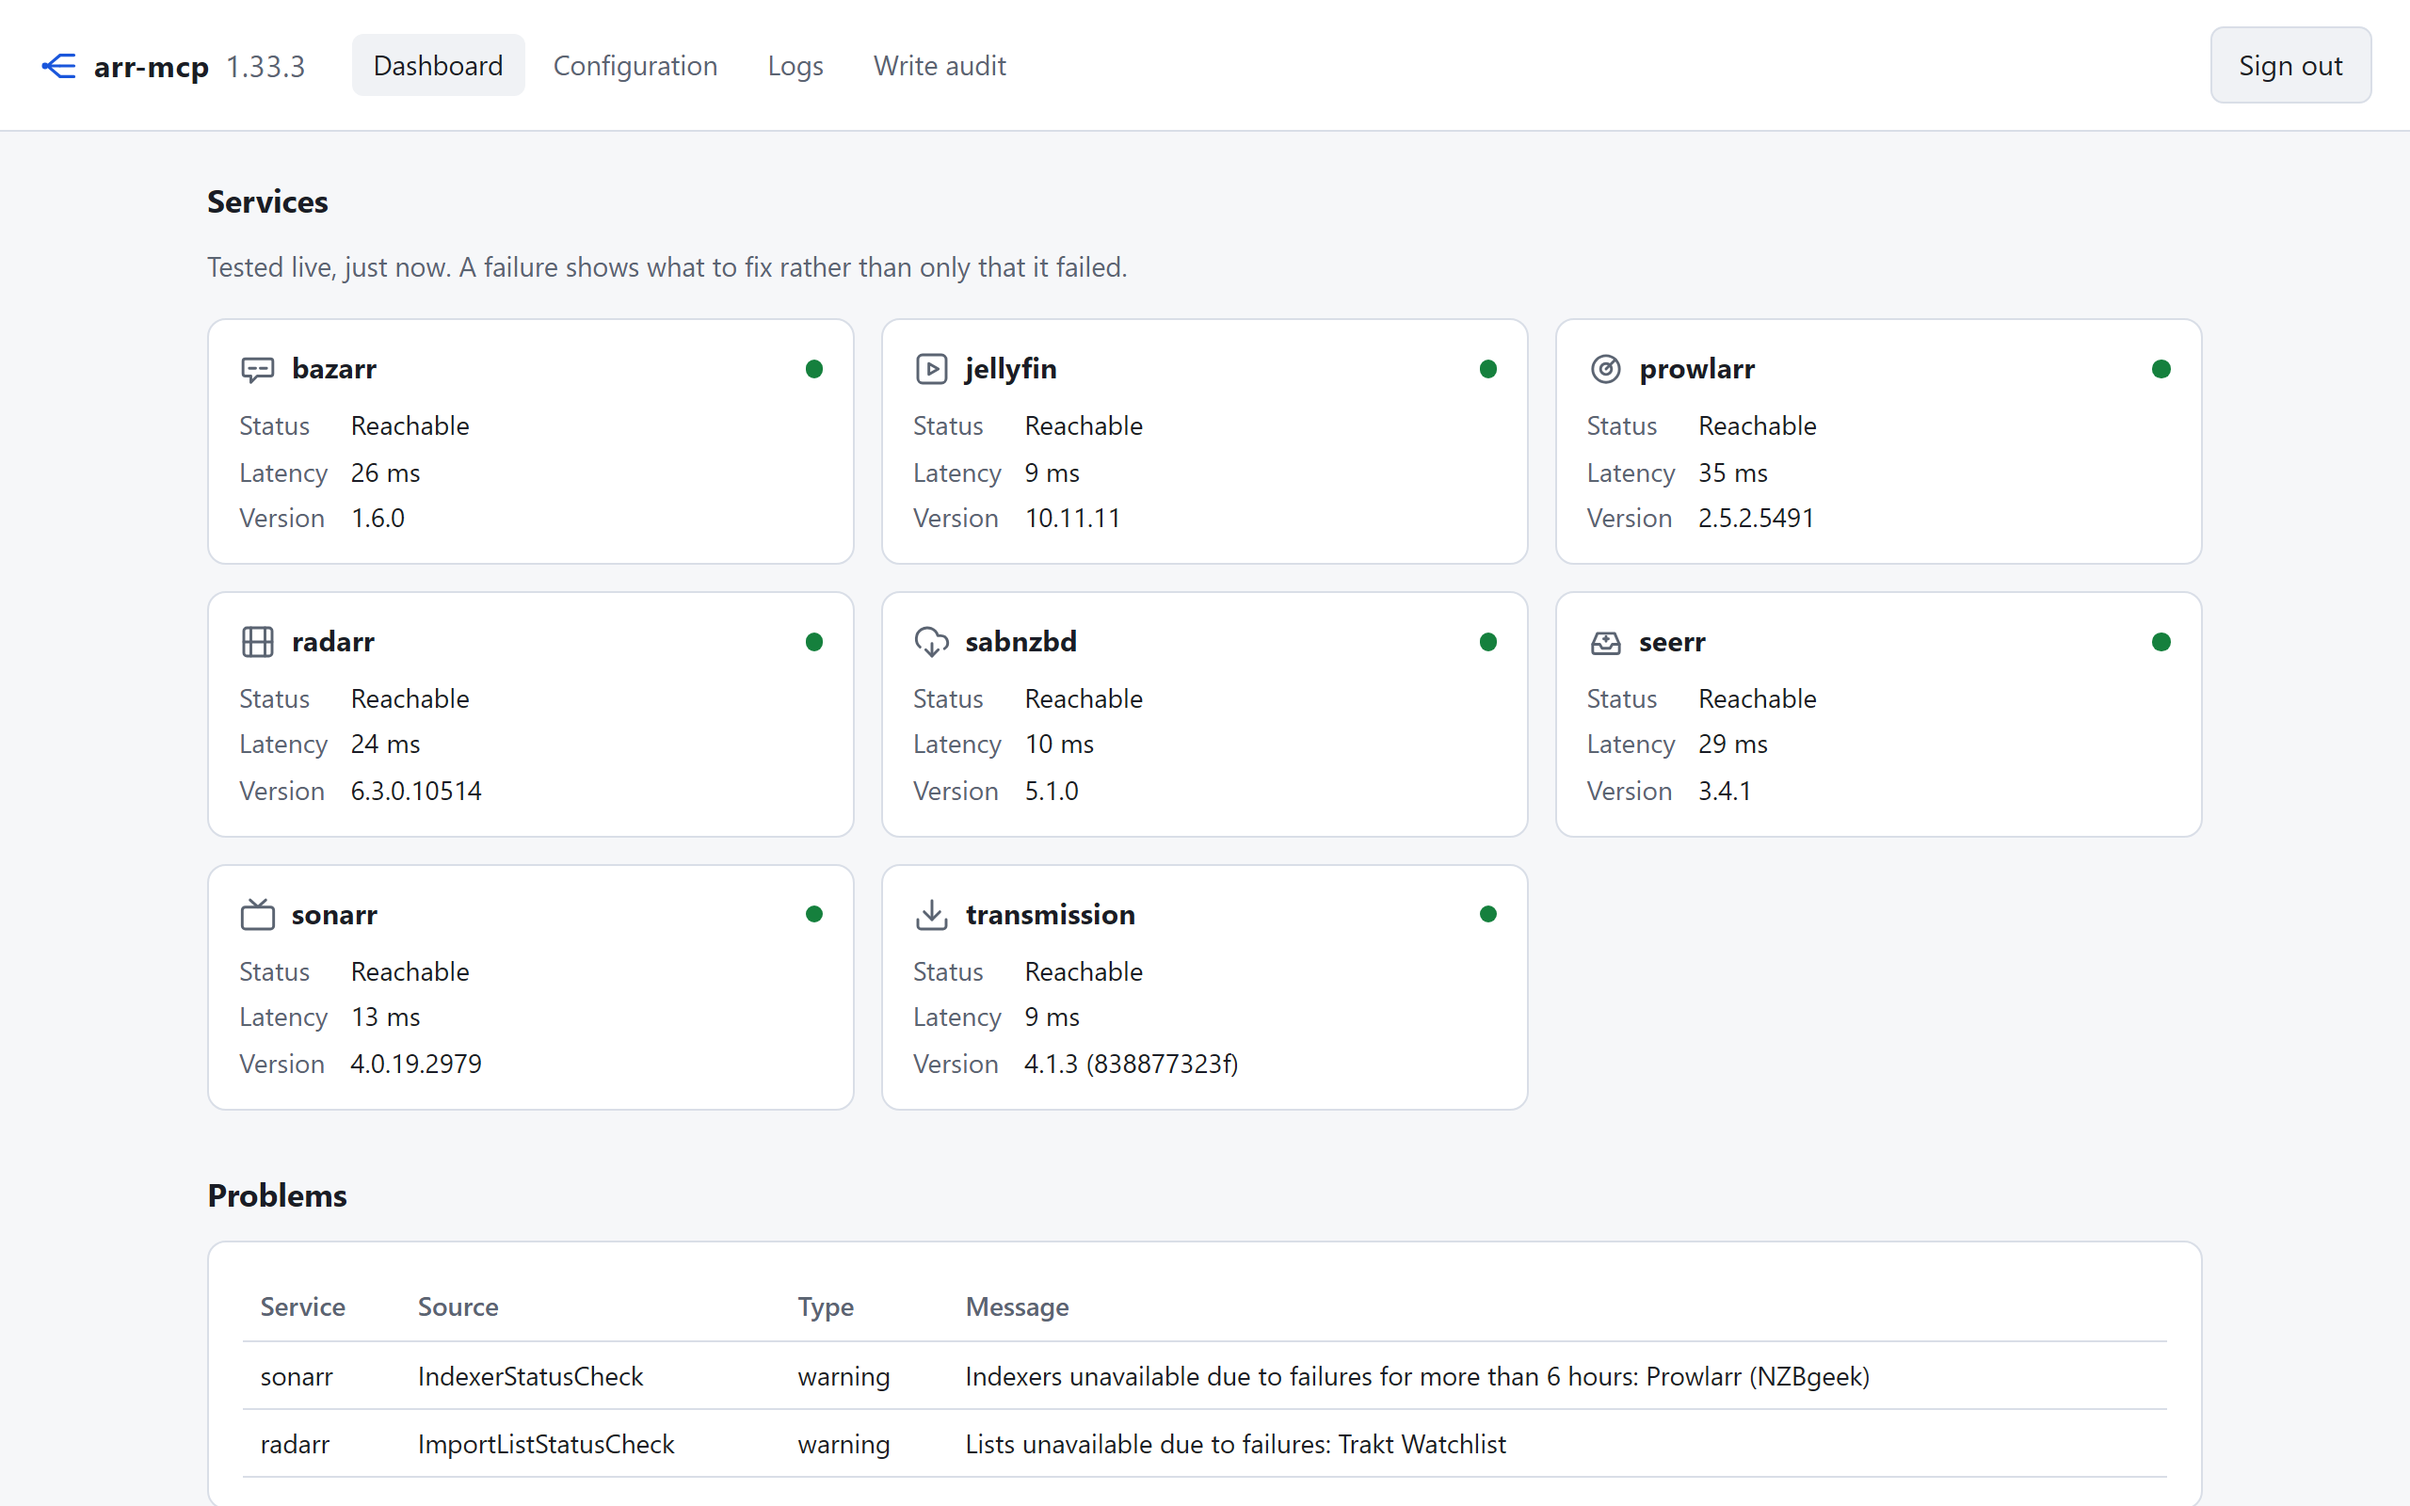
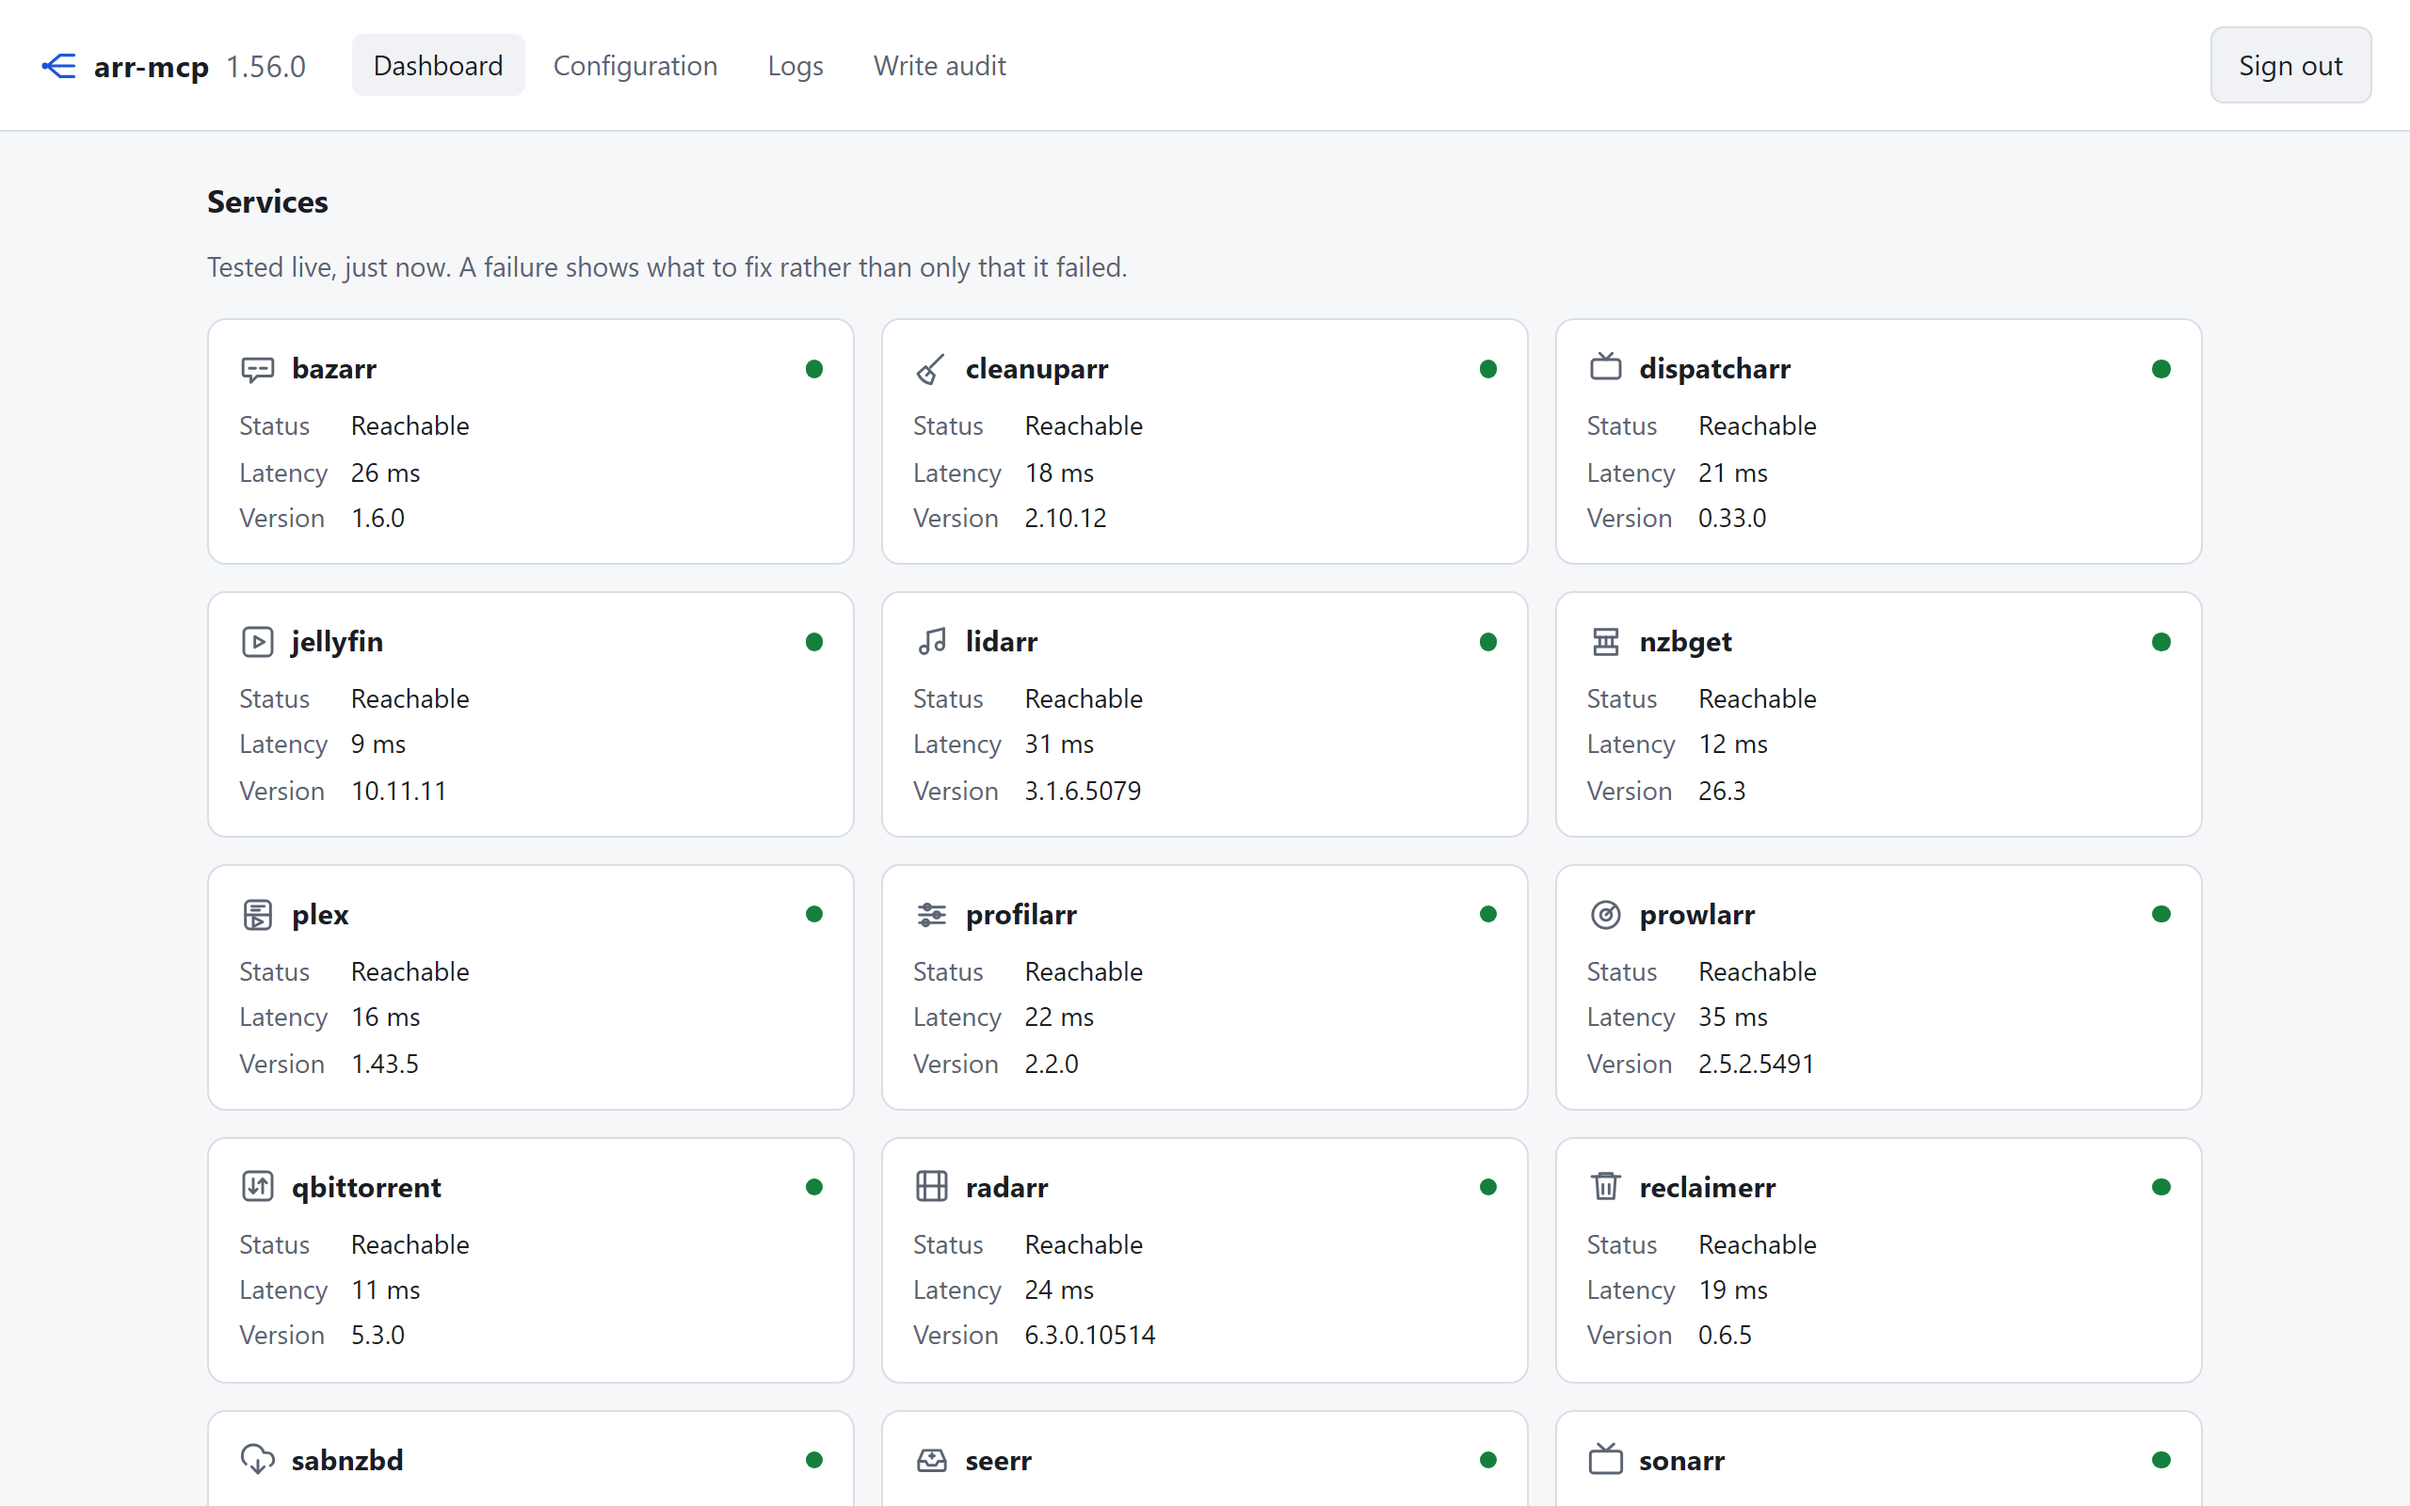
docs: show all 17 services in the screenshots (#449)
The screenshot fixture still listed the original eight services, so the
dashboard image left out Plex, qBittorrent and everything added since 1.21.
Regenerating also moves the version shown on every page to 1.56.0.

diff --git a/scripts/lib/uiFixture.ts b/scripts/lib/uiFixture.ts
@@ -42,19 +42,30 @@ export const VERSION: string = (
 ).version;
 
 /**
- * All eight reachable. A dashboard is not the place to demonstrate a failure —
- * the Problems table below it is, and it does, so the hero shot shows a working
- * stack while the page still shows what a problem looks like.
+ * Every supported service, all reachable. A dashboard is not the place to
+ * demonstrate a failure — the Problems table below it is, and it does, so the
+ * hero shot shows a working stack while the page still shows what a problem
+ * looks like. Seventeen tiles run past the fixed viewport, which cuts off that
+ * table in the committed PNG; the full page is one `fullPage` capture away.
  */
 export const DIAGNOSES: ConnectionDiagnosis[] = [
     { ok: true, service: 'bazarr', latency_ms: 26, version: '1.6.0' },
+    { ok: true, service: 'cleanuparr', latency_ms: 18, version: '2.10.12' },
+    { ok: true, service: 'dispatcharr', latency_ms: 21, version: '0.33.0' },
     { ok: true, service: 'jellyfin', latency_ms: 9, version: '10.11.11' },
+    { ok: true, service: 'lidarr', latency_ms: 31, version: '3.1.6.5079' },
+    { ok: true, service: 'nzbget', latency_ms: 12, version: '26.3' },
+    { ok: true, service: 'plex', latency_ms: 16, version: '1.43.5' },
+    { ok: true, service: 'profilarr', latency_ms: 22, version: '2.2.0' },
     { ok: true, service: 'prowlarr', latency_ms: 35, version: '2.5.2.5491' },
+    { ok: true, service: 'qbittorrent', latency_ms: 11, version: '5.3.0' },
     { ok: true, service: 'radarr', latency_ms: 24, version: '6.3.0.10514' },
+    { ok: true, service: 'reclaimerr', latency_ms: 19, version: '0.6.5' },
     { ok: true, service: 'sabnzbd', latency_ms: 10, version: '5.1.0' },
     { ok: true, service: 'seerr', latency_ms: 29, version: '3.4.1' },
     { ok: true, service: 'sonarr', latency_ms: 13, version: '4.0.19.2979' },
-    { ok: true, service: 'transmission', latency_ms: 9, version: '4.1.3 (838877323f)' }
+    { ok: true, service: 'transmission', latency_ms: 9, version: '4.1.3 (838877323f)' },
+    { ok: true, service: 'whisparr', latency_ms: 27, version: '2.2.0.108' }
 ];
 
 export const CONFIGURED = DIAGNOSES.map(d => d.service);
